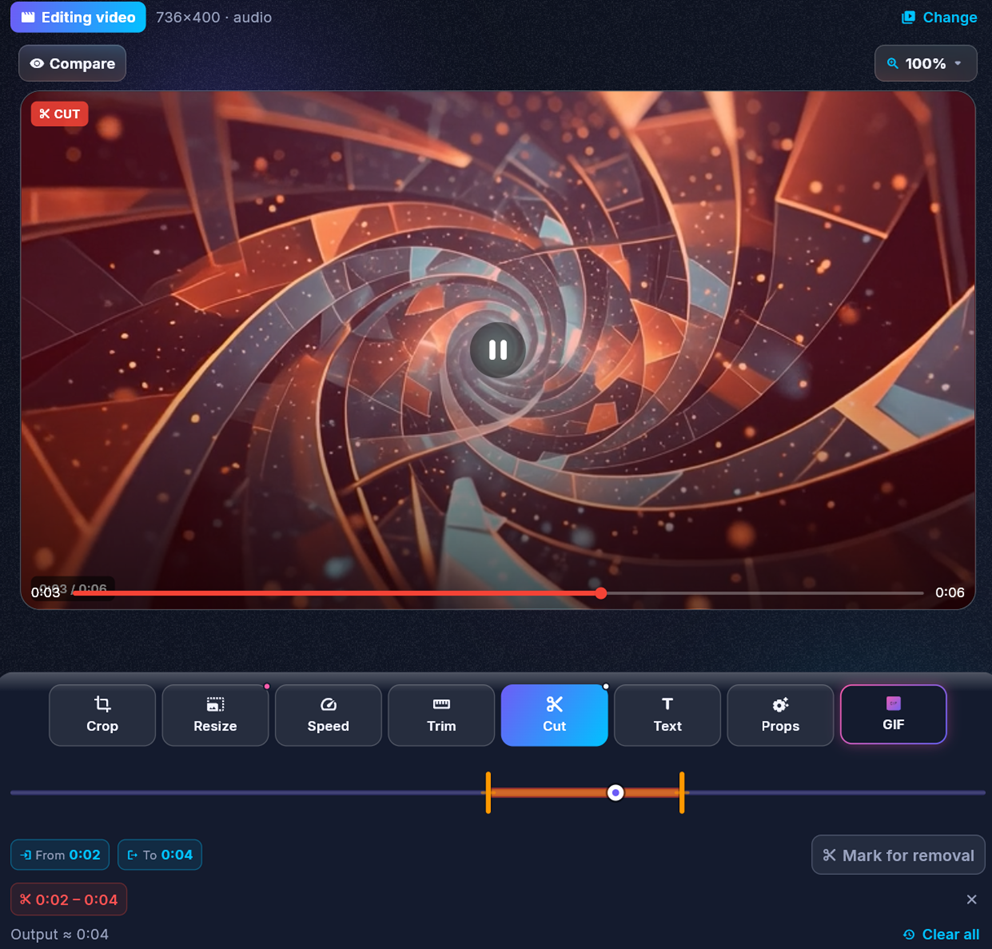
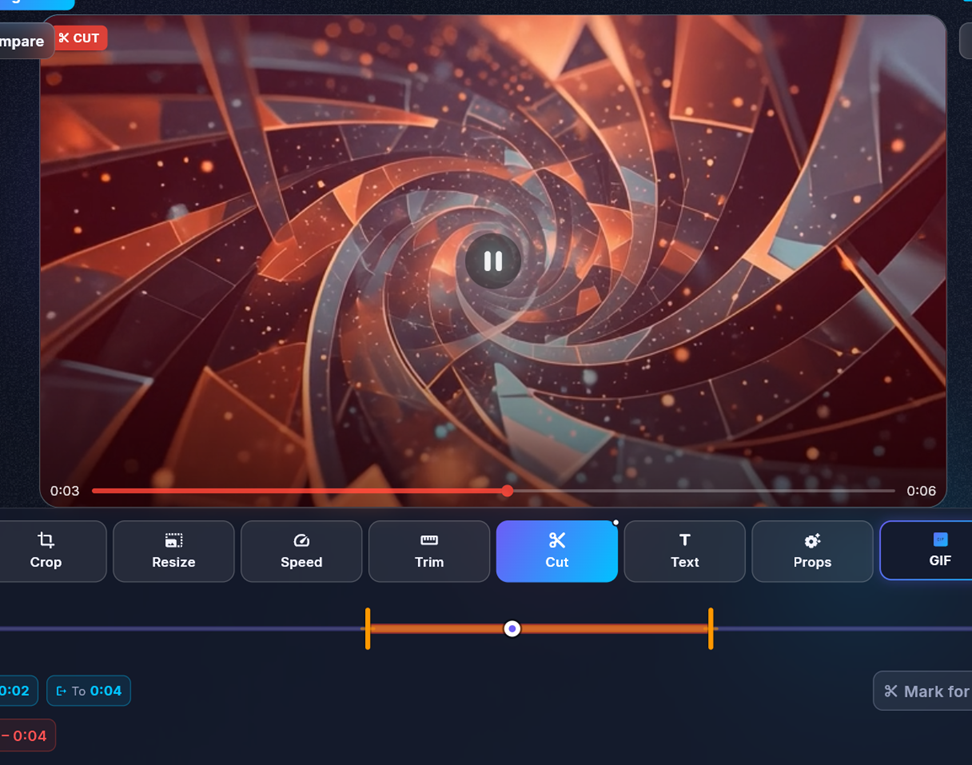
Improve hotkey display

diff --git a/lib/features/video_studio/view/video_studio_screen.dart b/lib/features/video_studio/view/video_studio_screen.dart
@@ -7,7 +7,9 @@ import 'package:desktop_drop/desktop_drop.dart';
 import 'package:flutter/rendering.dart' show RenderProxyBox;
 import 'package:file_picker/file_picker.dart';
 import 'package:flutter/foundation.dart' show ValueListenable;
+import 'package:flutter/gestures.dart' show PointerScrollEvent;
 import 'package:flutter/material.dart';
+import 'package:flutter/services.dart' show HardwareKeyboard;
 import 'package:flutter_riverpod/flutter_riverpod.dart';
 
 import '../../../core/theme/app_colors.dart';
@@ -123,6 +125,18 @@ class _VideoStudioScreenState extends ConsumerState<VideoStudioScreen> {
   // the preview pushed off-screen and truncated).
   final TransformationController _transform = TransformationController();
   bool _isDragHovering = false;
+  // Ctrl+scroll (desktop) / pinch (touch) zoom over the preview. Pointer
+  // tracking is raw (Listener), not a GestureDetector, so it never enters the
+  // gesture arena and can't steal the drag from InteractiveViewer's own pan
+  // recognizer — single-finger moves fall straight through untouched.
+  final Map<int, Offset> _zoomPointers = {};
+  double? _pinchStartDistance;
+  double? _pinchStartZoom;
+
+  // Snaps to 5% steps (0.05) so scroll/pinch zoom lands on round percentages,
+  // same granularity as the preset dropdown values.
+  double _snapZoom(double value) =>
+      (value.clamp(0.25, 3.0) * 20).round() / 20;
   // Measured height of the glass control dock. The preview pane extends under
   // the dock (bottom edge shows through the blur), so Fit mode subtracts this
   // to keep the whole frame visible above it.
@@ -678,9 +692,63 @@ class _VideoStudioScreenState extends ConsumerState<VideoStudioScreen> {
                           ),
                         );
 
+                        final zoomablePane = Listener(
+                          onPointerSignal: (event) {
+                            if (event is! PointerScrollEvent) return;
+                            if (!HardwareKeyboard.instance.isControlPressed) {
+                              return;
+                            }
+                            final current = _zoom ?? fitScale;
+                            final next = _snapZoom(
+                              current - event.scrollDelta.dy * 0.0015,
+                            );
+                            setState(() => _zoom = next);
+                          },
+                          onPointerDown: (event) {
+                            _zoomPointers[event.pointer] = event.position;
+                            if (_zoomPointers.length == 2) {
+                              final pts = _zoomPointers.values.toList();
+                              _pinchStartDistance = (pts[0] - pts[1]).distance;
+                              _pinchStartZoom = _zoom ?? fitScale;
+                            }
+                          },
+                          onPointerMove: (event) {
+                            if (!_zoomPointers.containsKey(event.pointer)) {
+                              return;
+                            }
+                            _zoomPointers[event.pointer] = event.position;
+                            final startDist = _pinchStartDistance;
+                            final startZoom = _pinchStartZoom;
+                            if (_zoomPointers.length == 2 &&
+                                startDist != null &&
+                                startDist > 0 &&
+                                startZoom != null) {
+                              final pts = _zoomPointers.values.toList();
+                              final dist = (pts[0] - pts[1]).distance;
+                              final next = _snapZoom(
+                                startZoom * dist / startDist,
+                              );
+                              setState(() => _zoom = next);
+                            }
+                          },
+                          onPointerUp: (event) {
+                            _zoomPointers.remove(event.pointer);
+                            if (_zoomPointers.length < 2) {
+                              _pinchStartDistance = null;
+                              _pinchStartZoom = null;
+                            }
+                          },
+                          onPointerCancel: (event) {
+                            _zoomPointers.remove(event.pointer);
+                            _pinchStartDistance = null;
+                            _pinchStartZoom = null;
+                          },
+                          child: pane,
+                        );
+
                         return Stack(
                           children: [
-                            Positioned.fill(child: pane),
+                            Positioned.fill(child: zoomablePane),
                             if (state.inputFile != null &&
                                 state.hasComparableEdit)
                               Positioned(
@@ -818,12 +886,15 @@ class _StageBanner extends StatelessWidget {
 
 // label, video-px scale. null scale = Fit to window.
 const _kZoomPresets = <(String, double?)>[
+  ('25%', 0.25),
   ('50%', 0.5),
   ('75%', 0.75),
   ('100%', 1.0),
   ('125%', 1.25),
   ('150%', 1.5),
   ('200%', 2.0),
+  ('250%', 2.5),
+  ('300%', 3.0),
   ('Fit', null),
 ];
 
@@ -833,10 +904,11 @@ class _ZoomControl extends StatelessWidget {
   final void Function(double?) onChanged;
 
   String get _label {
+    if (zoom == null) return 'Fit';
     for (final p in _kZoomPresets) {
       if (p.$2 == zoom) return p.$1;
     }
-    return 'Fit';
+    return '${(zoom! * 100).round()}%';
   }
 
   @override

diff --git a/lib/features/screen_record/widgets/hotkey_recorder_field.dart b/lib/features/screen_record/widgets/hotkey_recorder_field.dart
@@ -103,12 +103,33 @@ class HotkeyRecorderField extends StatelessWidget {
           ),
           title: Text('Press keys for "$label"',
               style: const TextStyle(color: AppColors.textHi, fontSize: 15)),
-          content: SizedBox(
-            width: 220,
-            child: HotKeyRecorder(
-              initalHotKey: hotkey,
-              onHotKeyRecorded: (k) => recorded = k,
-            ),
+          content: StatefulBuilder(
+            builder: (context, setDialogState) {
+              return SizedBox(
+                width: 220,
+                child: Column(
+                  mainAxisSize: MainAxisSize.min,
+                  children: [
+                    _WindowsHotKeyView(hotKey: recorded ?? hotkey),
+                    const SizedBox(height: 12),
+                    // `HotKeyRecorder`'s own visual (via `HotKeyVirtualView`)
+                    // renders raw OS key labels, not our Windows-style
+                    // Ctrl/Alt/Shift labels — mismatched vs the row above and
+                    // the list. Keep it offstage purely for keyboard capture;
+                    // show our own consistent labels instead.
+                    Offstage(
+                      child: HotKeyRecorder(
+                        initalHotKey: hotkey,
+                        onHotKeyRecorded: (k) {
+                          recorded = k;
+                          setDialogState(() {});
+                        },
+                      ),
+                    ),
+                  ],
+                ),
+              );
+            },
           ),
           actions: [
             TextButton(